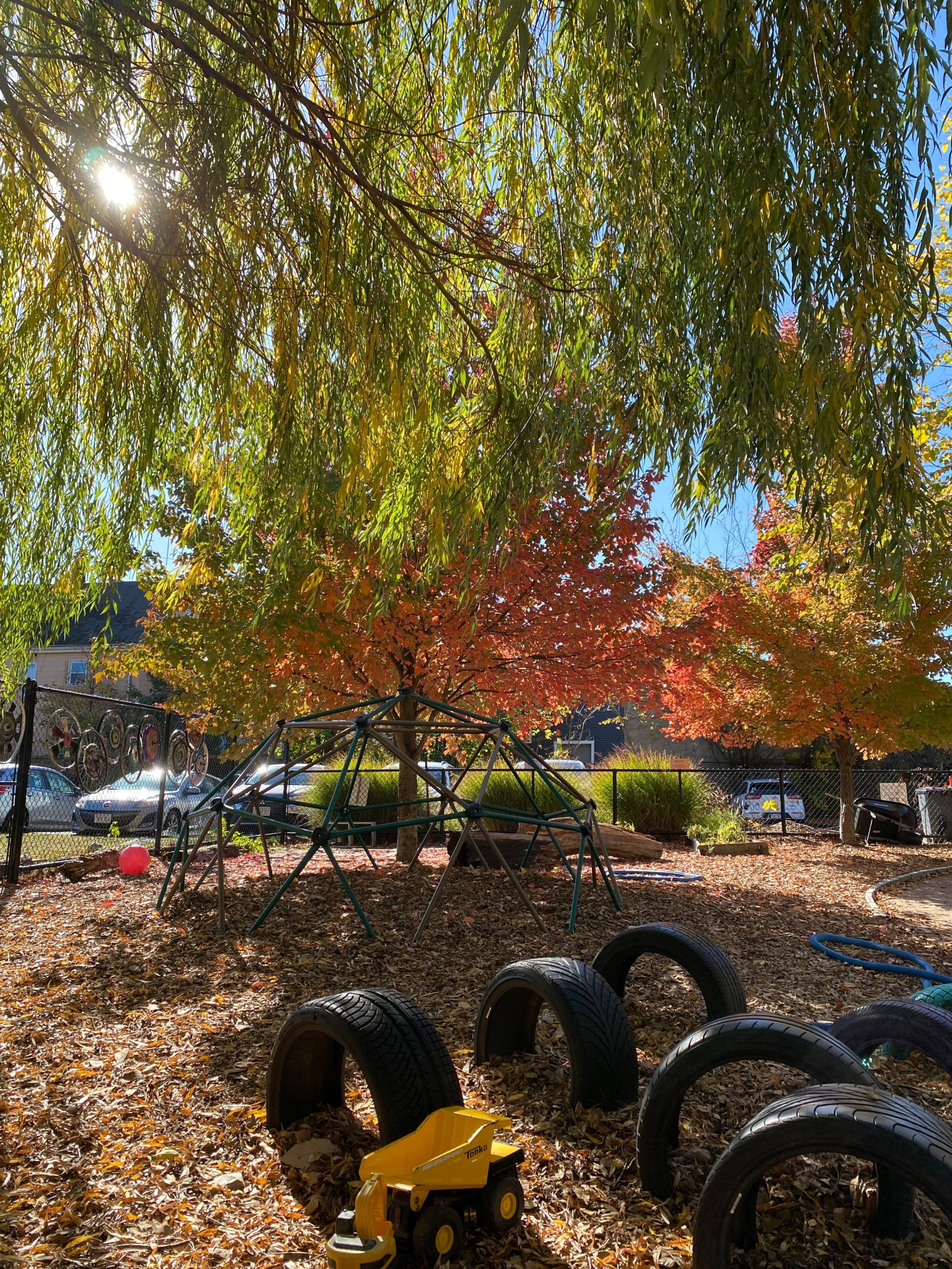
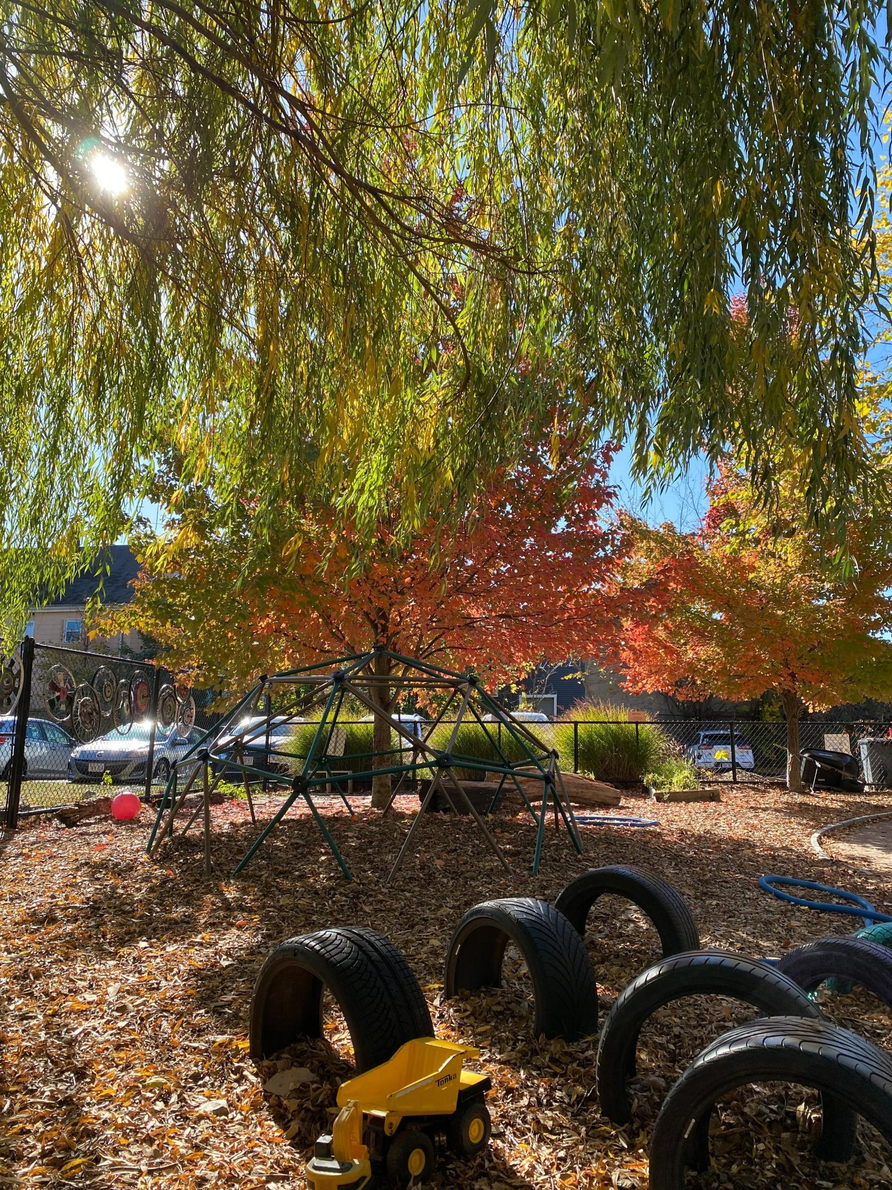
compress images

diff --git a/index.html b/index.html
@@ -21,7 +21,7 @@
     <meta property="og:site_name" content="Bigelow Cooperative Daycare" />
     <meta
       property="og:image"
-      content="https://bigelowcoop.org/assets/images/bigelow-building.png"
+      content="https://bigelowcoop.org/assets/images/bigelow-building.jpg"
     />
     <link rel="icon" href="assets/favicon.ico" sizes="any" />
     <link
@@ -49,7 +49,7 @@
     <section class="hero" aria-label="Welcome to Bigelow">
       <div class="hero-image">
         <img
-          src="assets/images/bigelow-building.png"
+          src="assets/images/bigelow-building.jpg"
           alt="Bigelow Cooperative Daycare Center — 44 Park Street, Somerville MA"
         />
       </div>

diff --git a/about.html b/about.html
@@ -21,7 +21,7 @@
     <meta property="og:site_name" content="Bigelow Cooperative Daycare" />
     <meta
       property="og:image"
-      content="https://bigelowcoop.org/assets/images/bigelow-building.png"
+      content="https://bigelowcoop.org/assets/images/bigelow-building.jpg"
     />
     <link rel="icon" href="assets/favicon.ico" sizes="any" />
     <link

diff --git a/enrollment.html b/enrollment.html
@@ -21,7 +21,7 @@
     <meta property="og:site_name" content="Bigelow Cooperative Daycare" />
     <meta
       property="og:image"
-      content="https://bigelowcoop.org/assets/images/bigelow-building.png"
+      content="https://bigelowcoop.org/assets/images/bigelow-building.jpg"
     />
     <link rel="icon" href="assets/favicon.ico" sizes="any" />
     <link

diff --git a/programs.html b/programs.html
@@ -21,7 +21,7 @@
     <meta property="og:site_name" content="Bigelow Cooperative Daycare" />
     <meta
       property="og:image"
-      content="https://bigelowcoop.org/assets/images/bigelow-building.png"
+      content="https://bigelowcoop.org/assets/images/bigelow-building.jpg"
     />
     <link rel="icon" href="assets/favicon.ico" sizes="any" />
     <link

diff --git a/schedule-a-tour.html b/schedule-a-tour.html
@@ -24,7 +24,7 @@
     <meta property="og:site_name" content="Bigelow Cooperative Daycare" />
     <meta
       property="og:image"
-      content="https://bigelowcoop.org/assets/images/bigelow-building.png"
+      content="https://bigelowcoop.org/assets/images/bigelow-building.jpg"
     />
     <link rel="icon" href="assets/favicon.ico" sizes="any" />
     <link
